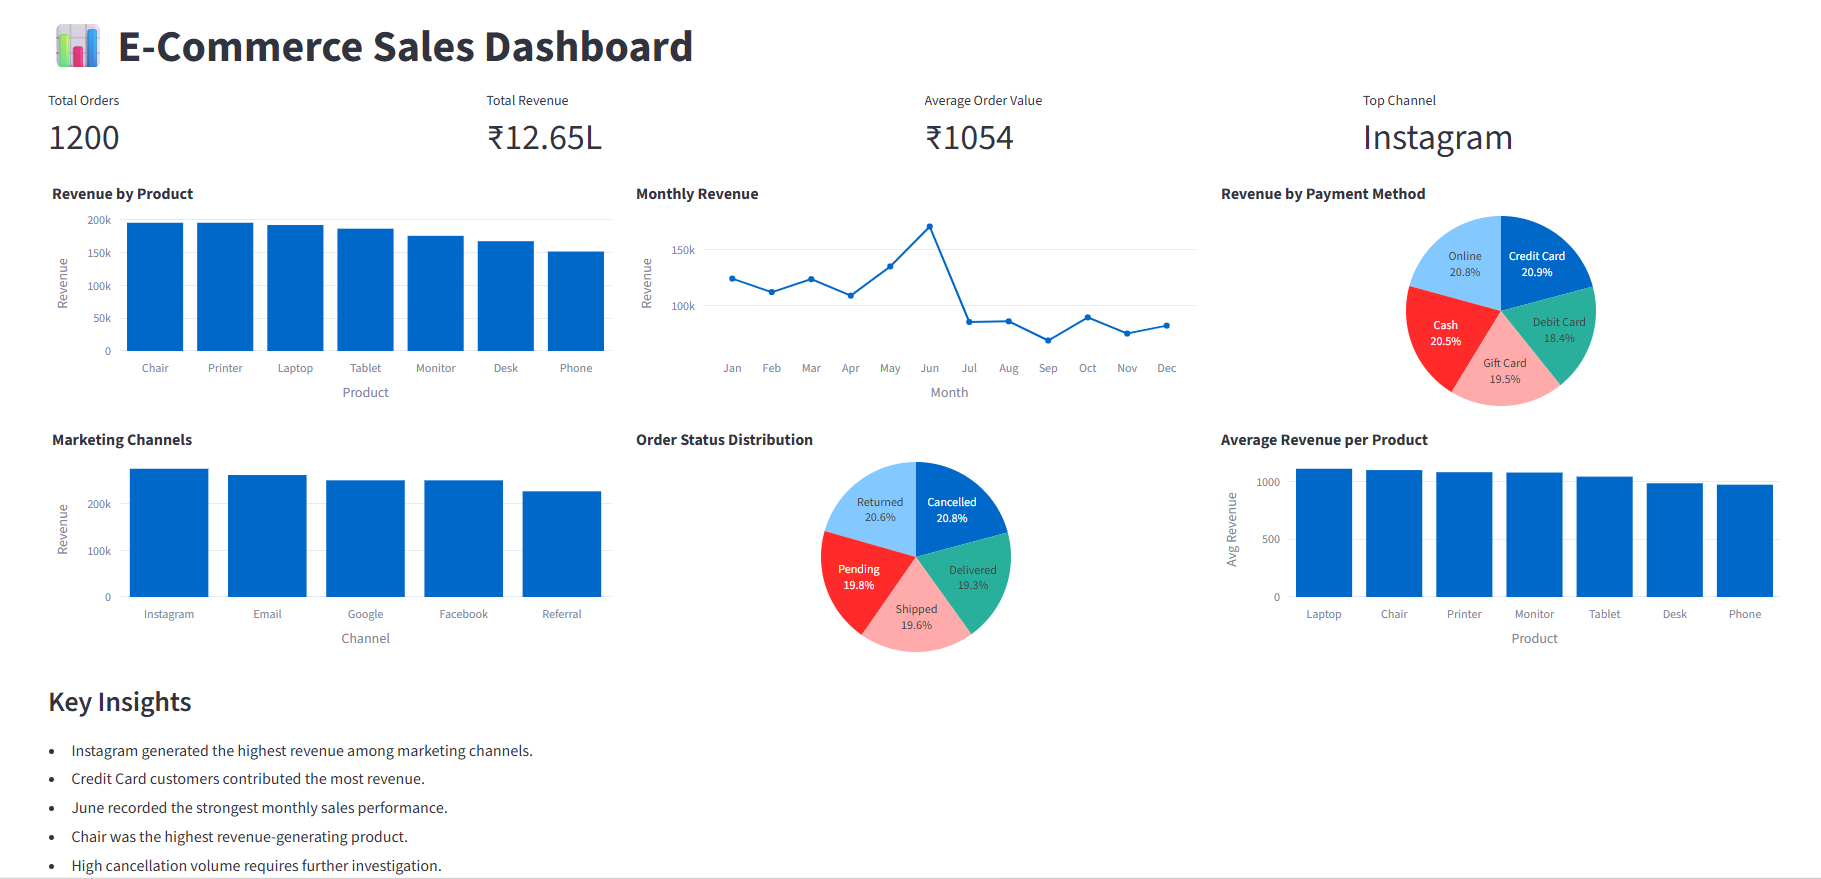
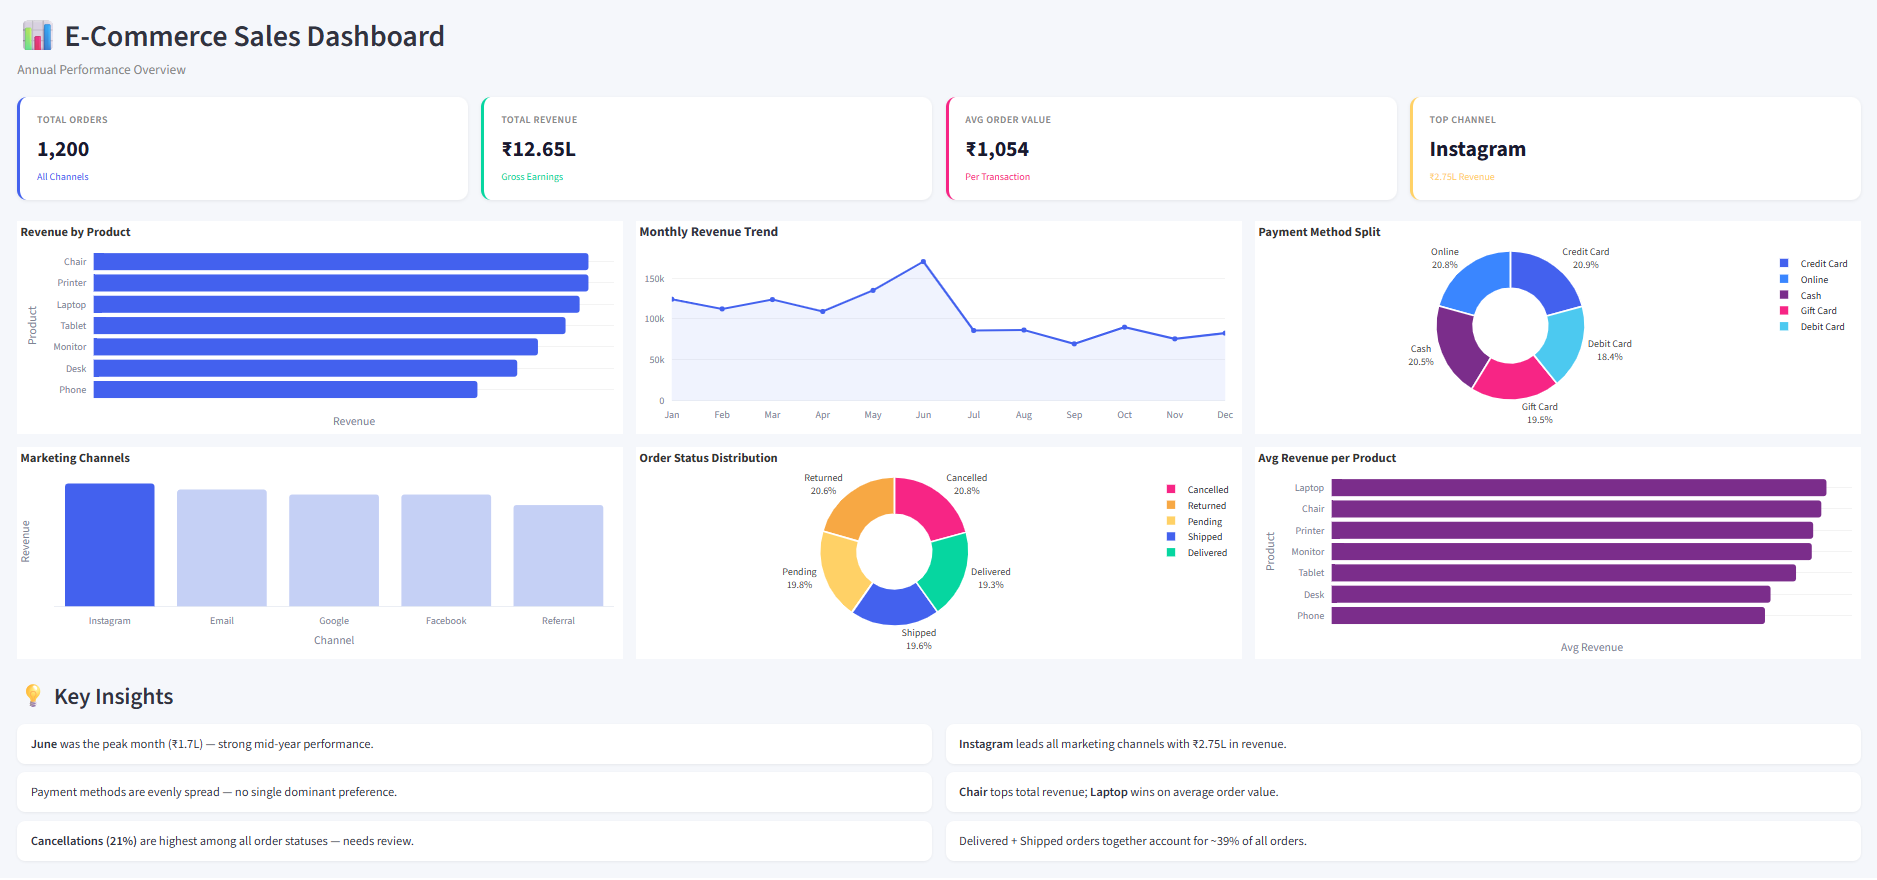
Update changes in Project-4/app.py

diff --git a/Project-4/app.py b/Project-4/app.py
@@ -1,200 +1,136 @@
 import streamlit as st
 import pandas as pd
 import plotly.express as px
+import plotly.graph_objects as go
 
-# PAGE CONFIG 
-st.set_page_config(
-    page_title="E-Commerce Dashboard",
-    layout="wide"
-)
-# DATA 
-total_orders = 1200
-total_revenue = 1264761.96
-avg_order_value = 1053.97
-product_revenue = {
-    "Chair":195620,
-    "Printer":195613,
-    "Laptop":192127,
-    "Tablet":186569,
-    "Monitor":175651,
-    "Desk":167460,
-    "Phone":151722
-}
-monthly_revenue = {
-    "Jan":124313,
-    "Feb":112345,
-    "Mar":123841,
-    "Apr":109186,
-    "May":135143,
-    "Jun":170616,
-    "Jul":85785,
-    "Aug":86343,
-    "Sep":69322,
-    "Oct":89835,
-    "Nov":75493,
-    "Dec":82541
-}
-channel_revenue = {
-    "Instagram":275285,
-    "Email":261809,
-    "Google":250441,
-    "Facebook":250411,
-    "Referral":226816
-}
-payment_revenue = {
-    "Credit Card":263848,
-    "Online":262443,
-    "Cash":259786,
-    "Gift Card":246324,
-    "Debit Card":232361
-}
-order_status = {
-    "Cancelled":250,
-    "Returned":247,
-    "Pending":237,
-    "Shipped":235,
-    "Delivered":231
-}
-avg_revenue_product = {
-    "Laptop":1110.56,
-    "Chair":1098.99,
-    "Printer":1080.73,
-    "Monitor":1077.62,
-    "Tablet":1042.28,
-    "Desk":985.06,
-    "Phone":972.58
-}
-# TITLE 
-st.title("📊 E-Commerce Sales Dashboard")
-# KPI CARDS 
-c1, c2, c3, c4 = st.columns(4)
-c1.metric("Total Orders", "1200")
-c2.metric("Total Revenue", "₹12.65L")
-c3.metric("Average Order Value", "₹1054")
-c4.metric("Top Channel", "Instagram")
-# CHART STYLE 
-def compact_chart(fig):
-    fig.update_layout(
-        height=230,
-        margin=dict(l=5, r=5, t=35, b=5),
-        showlegend=False
-    )
-    return fig
-# ROW 1 
-col1, col2, col3 = st.columns(3)
-with col1:
-    df = pd.DataFrame(
-        product_revenue.items(),
-        columns=["Product", "Revenue"]
-    )
-    fig = px.bar(
-        df,
-        x="Product",
-        y="Revenue",
-        title="Revenue by Product"
-    )
-    st.plotly_chart(
-        compact_chart(fig),
-        use_container_width=True,
-        config={"displayModeBar": False}
-    )
-with col2:
-    df = pd.DataFrame(
-        monthly_revenue.items(),
-        columns=["Month", "Revenue"]
-    )
-    fig = px.line(
-        df,
-        x="Month",
-        y="Revenue",
-        markers=True,
-        title="Monthly Revenue"
-    )
-    st.plotly_chart(
-        compact_chart(fig),
-        use_container_width=True,
-        config={"displayModeBar": False}
-    )
-with col3:
-    df = pd.DataFrame(
-        payment_revenue.items(),
-        columns=["Payment", "Revenue"]
-    )
-    fig = px.pie(
-        df,
-        names="Payment",
-        values="Revenue",
-        title="Revenue by Payment Method"
-    )
-    fig.update_traces(
-    textposition="inside",
-    textinfo='label+percent'
-    )
-    st.plotly_chart(
-        compact_chart(fig),
-        use_container_width=True,
-        config={"displayModeBar": False}
-    )
-# ROW 2 
-col4, col5, col6 = st.columns(3)
-with col4:
-    df = pd.DataFrame(
-        channel_revenue.items(),
-        columns=["Channel", "Revenue"]
-    )
-    fig = px.bar(
-        df,
-        x="Channel",
-        y="Revenue",
-        title="Marketing Channels"
-    )
-    st.plotly_chart(
-        compact_chart(fig),
-        use_container_width=True,
-        config={"displayModeBar": False}
-    )
-with col5:
-    df = pd.DataFrame(
-        order_status.items(),
-        columns=["Status", "Count"]
-    )
-    fig = px.pie(
-        df,
-        names="Status",
-        values="Count",
-        title="Order Status Distribution"
-    )
-    fig.update_traces(
-    textposition="inside",
-    textinfo='label+percent'
-    )
-    st.plotly_chart(
-        compact_chart(fig),
-        use_container_width=True,
-        config={"displayModeBar": False}
-    )
-with col6:
-    df = pd.DataFrame(
-        avg_revenue_product.items(),
-        columns=["Product", "Avg Revenue"]
-    )
-    fig = px.bar(
-        df,
-        x="Product",
-        y="Avg Revenue",
-        title="Average Revenue per Product"
-    )
-    st.plotly_chart(
-        compact_chart(fig),
-        use_container_width=True,
-        config={"displayModeBar": False}
-    )
-# INSIGHTS 
-st.markdown("### Key Insights")
+st.set_page_config(page_title="E-Commerce Dashboard", layout="wide")
 st.markdown("""
-- Instagram generated the highest revenue among marketing channels.
-- Credit Card customers contributed the most revenue.
-- June recorded the strongest monthly sales performance.
-- Chair was the highest revenue-generating product.
-- High cancellation volume requires further investigation.
-""")
+<style>
+[data-testid="stAppViewContainer"] { background: #f5f7fb; }
+[data-testid="stHeader"] { background: #f5f7fb; }
+.block-container { padding: 2rem 2.5rem 1rem; }
+
+.kpi {
+    background: white;
+    border-radius: 12px;
+    padding: 18px 20px;
+    border-left: 4px solid #4361ee;
+    box-shadow: 0 1px 4px rgba(0,0,0,0.07);
+}
+.kpi-label { font-size: 12px; color: #888; font-weight: 600; text-transform: uppercase; letter-spacing: 0.05em; }
+.kpi-value { font-size: 26px; font-weight: 700; color: #1a1a2e; margin-top: 4px; }
+.kpi-note  { font-size: 12px; color: #4361ee; margin-top: 3px; }
+</style>
+""", unsafe_allow_html=True)
+
+# DATA 
+product_rev  = {"Chair":195620,"Printer":195613,"Laptop":192127,"Tablet":186569,"Monitor":175651,"Desk":167460,"Phone":151722}
+monthly_rev  = {"Jan":124313,"Feb":112345,"Mar":123841,"Apr":109186,"May":135143,"Jun":170616,"Jul":85785,"Aug":86343,"Sep":69322,"Oct":89835,"Nov":75493,"Dec":82541}
+channel_rev  = {"Instagram":275285,"Email":261809,"Google":250441,"Facebook":250411,"Referral":226816}
+payment_rev  = {"Credit Card":263848,"Online":262443,"Cash":259786,"Gift Card":246324,"Debit Card":232361}
+status_data  = {"Cancelled":250,"Returned":247,"Pending":237,"Shipped":235,"Delivered":231}
+avg_rev      = {"Laptop":1110.56,"Chair":1098.99,"Printer":1080.73,"Monitor":1077.62,"Tablet":1042.28,"Desk":985.06,"Phone":972.58}
+
+COLORS = ["#4361ee","#3a86ff","#7b2d8b","#f72585","#4cc9f0","#06d6a0","#ffd166"]
+CHART  = dict(paper_bgcolor="white", plot_bgcolor="white", font_color="#444",
+              margin=dict(l=10,r=10,t=36,b=40), height=255,
+              title_font=dict(size=15, color="#333"))
+
+# TITLE 
+st.markdown("## 📊 E-Commerce Sales Dashboard")
+st.markdown("<p style='color:#888;margin-top:-10px;margin-bottom:20px'>Annual Performance Overview</p>", unsafe_allow_html=True)
+
+# KPI CARDS 
+k1, k2, k3, k4 = st.columns(4)
+for col, label, value, note, color in [
+    (k1, "Total Orders",     "1,200",     "All Channels", "#4361ee"),
+    (k2, "Total Revenue",    "₹12.65L",   "Gross Earnings", "#06d6a0"),
+    (k3, "Avg Order Value",  "₹1,054",    "Per Transaction", "#f72585"),
+    (k4, "Top Channel",      "Instagram", "₹2.75L Revenue", "#ffd166"),
+]:
+    col.markdown(f"""
+    <div class="kpi" style="border-left-color:{color}">
+      <div class="kpi-label">{label}</div>
+      <div class="kpi-value">{value}</div>
+      <div class="kpi-note" style="color:{color}">{note}</div>
+    </div>""", unsafe_allow_html=True)
+
+st.markdown("<br>", unsafe_allow_html=True)
+# ROW 1 
+c1, c2, c3 = st.columns(3)
+with c1:
+    df = pd.DataFrame(product_rev.items(), columns=["Product","Revenue"]).sort_values("Revenue")
+    fig = px.bar(df, x="Revenue", y="Product", orientation="h",
+                 title="Revenue by Product", color_discrete_sequence=["#4361ee"])
+    fig.update_traces(marker_cornerradius=4)
+    fig.update_layout(**CHART, xaxis=dict(showgrid=False, showticklabels=False),
+                      yaxis=dict(gridcolor="#f0f0f0"))
+    st.plotly_chart(fig, use_container_width=True, config={"displayModeBar":False})
+
+with c2:
+    df = pd.DataFrame(monthly_rev.items(), columns=["Month","Revenue"])
+    fig = go.Figure(go.Scatter(x=df["Month"], y=df["Revenue"], mode="lines+markers",
+        line=dict(color="#4361ee", width=2.5), marker=dict(size=6, color="#4361ee"),
+        fill="tozeroy", fillcolor="rgba(67,97,238,0.08)"))
+    fig.update_layout(**CHART, title="Monthly Revenue Trend",
+                      xaxis=dict(gridcolor="#f0f0f0"), yaxis=dict(gridcolor="#f0f0f0"))
+    st.plotly_chart(fig, use_container_width=True, config={"displayModeBar":False})
+
+with c3:
+    df = pd.DataFrame(payment_rev.items(), columns=["Method","Revenue"])
+    fig = px.pie(df, names="Method", values="Revenue", hole=0.5,
+                 title="Payment Method Split", color_discrete_sequence=COLORS)
+    fig.update_traces(textposition="outside", textinfo="label+percent",
+                      marker=dict(line=dict(color="white", width=2)))
+    fig.update_layout(**CHART)
+    st.plotly_chart(fig, use_container_width=True, config={"displayModeBar":False})
+
+# ROW 2 
+c4, c5, c6 = st.columns(3)
+with c4:
+    df = pd.DataFrame(channel_rev.items(), columns=["Channel","Revenue"]).sort_values("Revenue",ascending=False)
+    clrs = ["#4361ee" if i == 0 else "#c5d0f5" for i in range(len(df))]
+    fig = px.bar(df, x="Channel", y="Revenue", title="Marketing Channels",
+                 color_discrete_sequence=["#4361ee"])
+    fig.update_traces(marker_color=clrs, marker_cornerradius=4)
+    fig.update_layout(**CHART, xaxis=dict(gridcolor="#f0f0f0"),
+                      yaxis=dict(showgrid=False, showticklabels=False))
+    st.plotly_chart(fig, use_container_width=True, config={"displayModeBar":False})
+
+with c5:
+    df = pd.DataFrame(status_data.items(), columns=["Status","Count"])
+    STATUS_CLR = {"Delivered":"#06d6a0","Shipped":"#4361ee","Pending":"#ffd166",
+                  "Returned":"#f7a844","Cancelled":"#f72585"}
+    fig = px.pie(df, names="Status", values="Count", hole=0.5,
+                 title="Order Status Distribution",
+                 color="Status", color_discrete_map=STATUS_CLR)
+    fig.update_traces(textposition="outside", textinfo="label+percent",
+                      marker=dict(line=dict(color="white", width=2)))
+    fig.update_layout(**CHART)
+    st.plotly_chart(fig, use_container_width=True, config={"displayModeBar":False})
+
+with c6:
+    df = pd.DataFrame(avg_rev.items(), columns=["Product","Avg Revenue"]).sort_values("Avg Revenue")
+    fig = px.bar(df, x="Avg Revenue", y="Product", orientation="h",
+                 title="Avg Revenue per Product", color_discrete_sequence=["#7b2d8b"])
+    fig.update_traces(marker_cornerradius=4)
+    fig.update_layout(**CHART, xaxis=dict(showgrid=False, showticklabels=False),
+                      yaxis=dict(gridcolor="#f0f0f0"))
+    st.plotly_chart(fig, use_container_width=True, config={"displayModeBar":False})
+
+# INSIGHTS 
+st.markdown("### 💡 Key Insights")
+i1, i2 = st.columns(2)
+insights = [
+    "<b>June</b> was the peak month (₹1.7L) — strong mid-year performance.",
+    "<b>Instagram</b> leads all marketing channels with ₹2.75L in revenue.",
+    "Payment methods are evenly spread — no single dominant preference.",
+    "<b>Chair</b> tops total revenue; <b>Laptop</b> wins on average order value.",
+    "<b>Cancellations (21%)</b> are highest among all order statuses — needs review.",
+    "Delivered + Shipped orders together account for ~39% of all orders.",
+]
+for idx, ins in enumerate(insights):
+    (i1 if idx % 2 == 0 else i2).markdown(
+        f"<div style='background:white;padding:12px 16px;border-radius:10px;"
+        f"margin-bottom:10px;box-shadow:0 1px 3px rgba(0,0,0,0.06);font-size:15px'>{ins}</div>",
+        unsafe_allow_html=True)